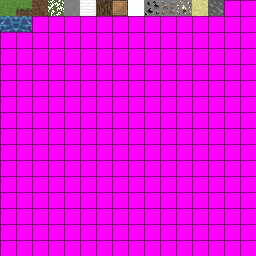
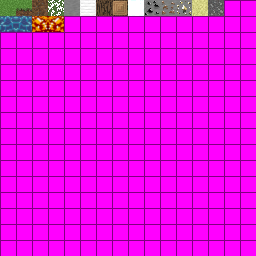
i added unused noise3d back

Changed region(s): [[0.125, 0.0625, 0.25, 0.125], [0.75, 0.0312, 0.8125, 0.0625]]

diff --git a/src/noise.c b/src/noise.c
@@ -3,7 +3,6 @@
 #include <math.h>
 #include <stdint.h>
 
-// Alignment macro for portability
 #if defined(_MSC_VER)
     #define ALIGN16 __declspec(align(16))
 #elif defined(__GNUC__) || defined(__clang__)
@@ -48,7 +47,9 @@ static inline float dot2(uint8_t gi, float x, float y) {
 }
 
 static inline float dot3(uint8_t gi, float x, float y, float z) {
-    return grad3d[gi % 12][0] * x + grad3d[gi % 12][1] * y + grad3d[gi % 12][2] * z;
+    return grad3d[gi % 12][0] * x +
+           grad3d[gi % 12][1] * y +
+           grad3d[gi % 12][2] * z;
 }
 
 static inline __m128 floor_ps(__m128 x) {
@@ -86,30 +87,37 @@ static inline __m128 noise2d_simd(__m128 x, __m128 y) {
     __m128 x2 = _mm_add_ps(_mm_sub_ps(X0, _mm_set1_ps(1.0f)), _mm_set1_ps(2.0f * G2));
     __m128 y2 = _mm_add_ps(_mm_sub_ps(Y0, _mm_set1_ps(1.0f)), _mm_set1_ps(2.0f * G2));
 
-    // Declare arrays with proper alignment
     ALIGN16 int ii[4];
     ALIGN16 int jj[4];
+
     ALIGN16 float X0a[4];
     ALIGN16 float Y0a[4];
+
     ALIGN16 float x1a[4];
     ALIGN16 float y1a[4];
+
     ALIGN16 float x2a[4];
     ALIGN16 float y2a[4];
+
     ALIGN16 float i1a[4];
     ALIGN16 float j1a[4];
 
     _mm_store_si128((__m128i*)ii, i);
     _mm_store_si128((__m128i*)jj, j);
+
     _mm_store_ps(X0a, X0);
     _mm_store_ps(Y0a, Y0);
+
     _mm_store_ps(x1a, x1);
     _mm_store_ps(y1a, y1);
+
     _mm_store_ps(x2a, x2);
     _mm_store_ps(y2a, y2);
+
     _mm_store_ps(i1a, i1f);
     _mm_store_ps(j1a, j1f);
 
-    float out[4];
+    ALIGN16 float out[4];
 
     for (int n = 0; n < 4; n++) {
         int i1 = (int)i1a[n];
@@ -144,6 +152,108 @@ static inline __m128 noise2d_simd(__m128 x, __m128 y) {
     return _mm_load_ps(out);
 }
 
+static inline __m128 noise3d_simd(__m128 x, __m128 y, __m128 z) {
+    ALIGN16 float xs[4];
+    ALIGN16 float ys[4];
+    ALIGN16 float zs[4];
+
+    _mm_store_ps(xs, x);
+    _mm_store_ps(ys, y);
+    _mm_store_ps(zs, z);
+
+    ALIGN16 float out[4];
+
+    for (int n = 0; n < 4; n++) {
+        float xf = xs[n];
+        float yf = ys[n];
+        float zf = zs[n];
+
+        float s = (xf + yf + zf) * F3;
+
+        int i = (int)floorf(xf + s);
+        int j = (int)floorf(yf + s);
+        int k = (int)floorf(zf + s);
+
+        float t = (float)(i + j + k) * G3;
+
+        float X0 = xf - ((float)i - t);
+        float Y0 = yf - ((float)j - t);
+        float Z0 = zf - ((float)k - t);
+
+        int i1, j1, k1;
+        int i2, j2, k2;
+
+        if (X0 >= Y0) {
+            if (Y0 >= Z0) {
+                i1 = 1; j1 = 0; k1 = 0;
+                i2 = 1; j2 = 1; k2 = 0;
+            } else if (X0 >= Z0) {
+                i1 = 1; j1 = 0; k1 = 0;
+                i2 = 1; j2 = 0; k2 = 1;
+            } else {
+                i1 = 0; j1 = 0; k1 = 1;
+                i2 = 1; j2 = 0; k2 = 1;
+            }
+        } else {
+            if (Y0 < Z0) {
+                i1 = 0; j1 = 0; k1 = 1;
+                i2 = 0; j2 = 1; k2 = 1;
+            } else if (X0 < Z0) {
+                i1 = 0; j1 = 1; k1 = 0;
+                i2 = 0; j2 = 1; k2 = 1;
+            } else {
+                i1 = 0; j1 = 1; k1 = 0;
+                i2 = 1; j2 = 1; k2 = 0;
+            }
+        }
+
+        float x1 = X0 - (float)i1 + G3;
+        float y1 = Y0 - (float)j1 + G3;
+        float z1 = Z0 - (float)k1 + G3;
+
+        float x2 = X0 - (float)i2 + 2.0f * G3;
+        float y2 = Y0 - (float)j2 + 2.0f * G3;
+        float z2 = Z0 - (float)k2 + 2.0f * G3;
+
+        float x3 = X0 - 1.0f + 3.0f * G3;
+        float y3 = Y0 - 1.0f + 3.0f * G3;
+        float z3 = Z0 - 1.0f + 3.0f * G3;
+
+        float n0 = 0.0f;
+        float n1 = 0.0f;
+        float n2 = 0.0f;
+        float n3 = 0.0f;
+
+        float t0 = 0.6f - X0 * X0 - Y0 * Y0 - Z0 * Z0;
+        if (t0 > 0.0f) {
+            t0 *= t0;
+            n0 = t0 * t0 * dot3(hash3(i, j, k), X0, Y0, Z0);
+        }
+
+        float t1 = 0.6f - x1 * x1 - y1 * y1 - z1 * z1;
+        if (t1 > 0.0f) {
+            t1 *= t1;
+            n1 = t1 * t1 * dot3(hash3(i + i1, j + j1, k + k1), x1, y1, z1);
+        }
+
+        float t2 = 0.6f - x2 * x2 - y2 * y2 - z2 * z2;
+        if (t2 > 0.0f) {
+            t2 *= t2;
+            n2 = t2 * t2 * dot3(hash3(i + i2, j + j2, k + k2), x2, y2, z2);
+        }
+
+        float t3 = 0.6f - x3 * x3 - y3 * y3 - z3 * z3;
+        if (t3 > 0.0f) {
+            t3 *= t3;
+            n3 = t3 * t3 * dot3(hash3(i + 1, j + 1, k + 1), x3, y3, z3);
+        }
+
+        out[n] = 32.0f * (n0 + n1 + n2 + n3);
+    }
+
+    return _mm_load_ps(out);
+}
+
 float noise2d(float x, float y) {
     __m128 xv = _mm_set1_ps(x);
     __m128 yv = _mm_set1_ps(y);
@@ -151,10 +261,28 @@ float noise2d(float x, float y) {
     return _mm_cvtss_f32(r);
 }
 
+float noise3d(float x, float y, float z) {
+    __m128 xv = _mm_set1_ps(x);
+    __m128 yv = _mm_set1_ps(y);
+    __m128 zv = _mm_set1_ps(z);
+    __m128 r = noise3d_simd(xv, yv, zv);
+    return _mm_cvtss_f32(r);
+}
+
 void noise2d_batch4(const float* xs, const float* ys, float* out) {
     __m128 xv = _mm_loadu_ps(xs);
     __m128 yv = _mm_loadu_ps(ys);
     __m128 r = noise2d_simd(xv, yv);
+    _mm_storeu_ps(out, r);
+}
+
+void noise3d_batch4(const float* xs, const float* ys, const float* zs, float* out) {
+    __m128 xv = _mm_loadu_ps(xs);
+    __m128 yv = _mm_loadu_ps(ys);
+    __m128 zv = _mm_loadu_ps(zs);
+
+    __m128 r = noise3d_simd(xv, yv, zv);
+
     _mm_storeu_ps(out, r);
 }
 
@@ -167,6 +295,29 @@ float fbm2d(float x, float y, int octaves, float persistence, float lacunarity) 
     for (int i = 0; i < octaves; i++) {
         total += noise2d(x * frequency, y * frequency) * amplitude;
         max_value += amplitude;
+
+        amplitude *= persistence;
+        frequency *= lacunarity;
+    }
+
+    return total / max_value;
+}
+
+float fbm3d(float x, float y, float z, int octaves, float persistence, float lacunarity) {
+    float total = 0.0f;
+    float frequency = 1.0f;
+    float amplitude = 1.0f;
+    float max_value = 0.0f;
+
+    for (int i = 0; i < octaves; i++) {
+        total += noise3d(
+            x * frequency,
+            y * frequency,
+            z * frequency
+        ) * amplitude;
+
+        max_value += amplitude;
+
         amplitude *= persistence;
         frequency *= lacunarity;
     }
@@ -210,37 +361,61 @@ void fbm2d_batch4(
     _mm_storeu_ps(out, total);
 }
 
-float noise_height(int world_x, int world_z, int sea_level) {
-    float h = fbm2d((float)world_x * 0.015f, (float)world_z * 0.015f, 4, 0.5f, 2.0f);
-    float detail = fbm2d((float)world_x * 0.08f, (float)world_z * 0.08f, 2, 0.5f, 2.0f) * 0.25f;
-    return (float)(sea_level + (int)((h + detail) * 16.0f));
+void fbm3d_batch4(
+    const float* xs,
+    const float* ys,
+    const float* zs,
+    float* out,
+    int octaves,
+    float persistence,
+    float lacunarity
+) {
+    __m128 total = _mm_setzero_ps();
+    __m128 frequency = _mm_set1_ps(1.0f);
+    __m128 amplitude = _mm_set1_ps(1.0f);
+
+    float max_value = 0.0f;
+
+    __m128 xv = _mm_loadu_ps(xs);
+    __m128 yv = _mm_loadu_ps(ys);
+    __m128 zv = _mm_loadu_ps(zs);
+
+    for (int i = 0; i < octaves; i++) {
+        __m128 nx = _mm_mul_ps(xv, frequency);
+        __m128 ny = _mm_mul_ps(yv, frequency);
+        __m128 nz = _mm_mul_ps(zv, frequency);
+
+        __m128 n = noise3d_simd(nx, ny, nz);
+
+        total = _mm_add_ps(total, _mm_mul_ps(n, amplitude));
+
+        max_value += _mm_cvtss_f32(amplitude);
+
+        amplitude = _mm_mul_ps(amplitude, _mm_set1_ps(persistence));
+        frequency = _mm_mul_ps(frequency, _mm_set1_ps(lacunarity));
+    }
+
+    total = _mm_div_ps(total, _mm_set1_ps(max_value));
+
+    _mm_storeu_ps(out, total);
 }
 
-void noise_height_batch4(
-    const int* world_x,
-    const int* world_z,
-    float* out,
-    int sea_level
-) {
-    float xs0[4];
-    float zs0[4];
-    float xs1[4];
-    float zs1[4];
+float noise_height(int world_x, int world_z, int sea_level) {
+    float h = fbm2d(
+        (float)world_x * 0.015f,
+        (float)world_z * 0.015f,
+        4,
+        0.5f,
+        2.0f
+    );
 
-    for (int i = 0; i < 4; i++) {
-        xs0[i] = (float)world_x[i] * 0.015f;
-        zs0[i] = (float)world_z[i] * 0.015f;
-        xs1[i] = (float)world_x[i] * 0.08f;
-        zs1[i] = (float)world_z[i] * 0.08f;
-    }
+    float detail = fbm2d(
+        (float)world_x * 0.08f,
+        (float)world_z * 0.08f,
+        2,
+        0.5f,
+        2.0f
+    ) * 0.25f;
 
-    float h[4];
-    float d[4];
-
-    fbm2d_batch4(xs0, zs0, h, 4, 0.5f, 2.0f);
-    fbm2d_batch4(xs1, zs1, d, 2, 0.5f, 2.0f);
-
-    for (int i = 0; i < 4; i++) {
-        out[i] = (float)(sea_level + (int)((h[i] + d[i] * 0.25f) * 16.0f));
-    }
+    return (float)(sea_level + (int)((h + detail) * 16.0f));
 }

diff --git a/src/chunk.c b/src/chunk.c
@@ -137,7 +137,7 @@ static uint16_t get_block_at_height(int wy, int wx, int wz, int terrain_height, 
 }
 
 void chunk_generate(Chunk* chunk) {
-    // Seed per-chunk RNG for deterministic features (ores, trees)
+    // seed per chunk
     rng_seed_chunk(gen_chunk_x, gen_chunk_z);
     
     chunk->data = (uint16_t*)malloc(CHUNK_WIDTH * CHUNK_HEIGHT * CHUNK_DEPTH * sizeof(uint16_t));
@@ -154,6 +154,7 @@ void chunk_generate(Chunk* chunk) {
                 int index = x + CHUNK_WIDTH * (y + CHUNK_HEIGHT * z);
                 uint16_t block = get_block_at_height(y, wx, wz, terrain_height, SEA_LEVEL);
                 chunk->data[index] = block;
+
             }
         }
     }
@@ -241,6 +242,7 @@ void chunk_generate(Chunk* chunk) {
             }
         }
     }
+
 
     for (int i = 0; i < 10; i++) { // ores
         {